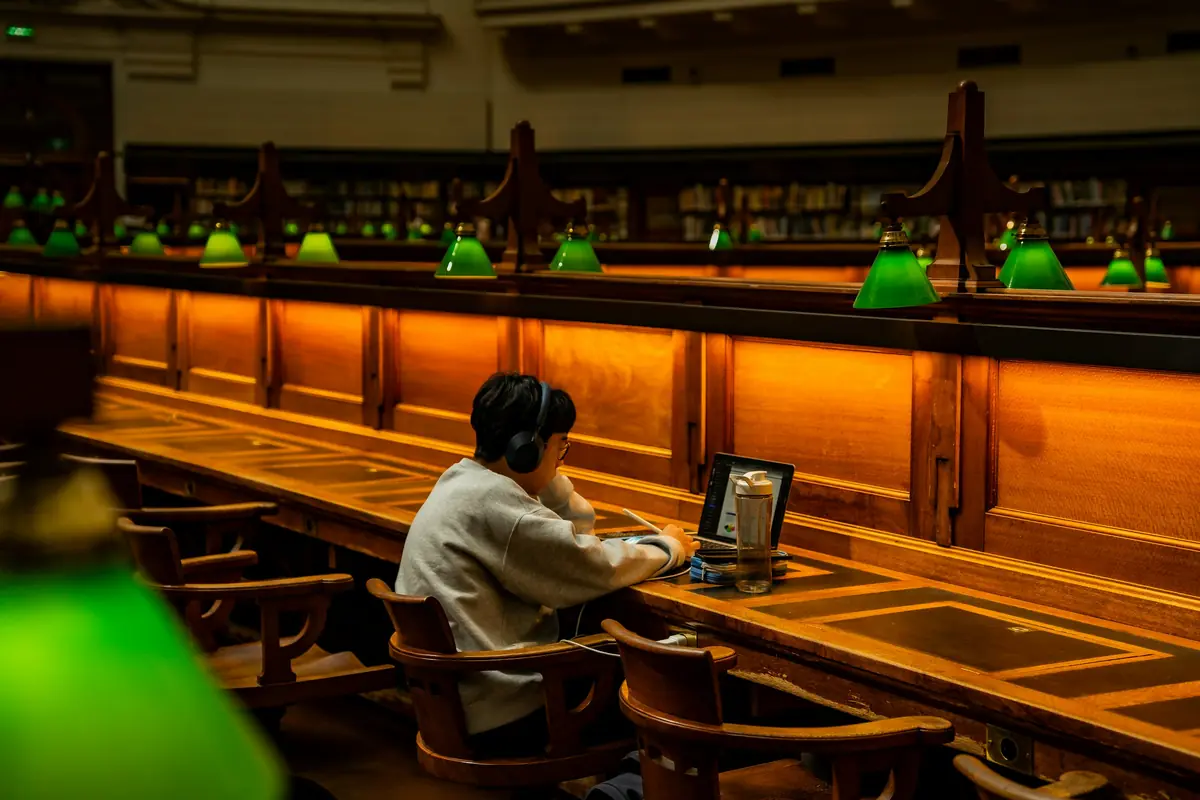
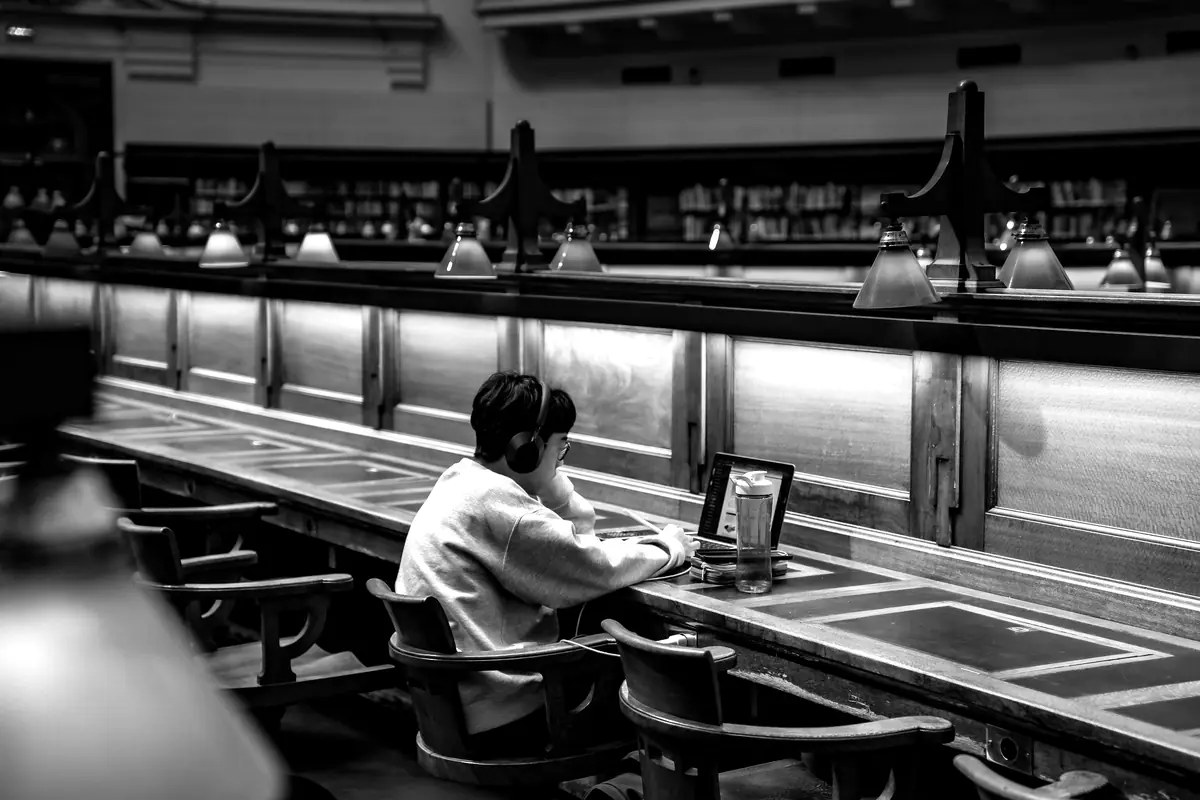
Make the landing feature photo black and white
At the owner's request every photograph now matches the monochrome hero
and the green, white and red palette.

diff --git a/src/pages/LandingPage.tsx b/src/pages/LandingPage.tsx
@@ -151,7 +151,7 @@ export default function LandingPage() {
           <SitePhoto
             slot="feature"
             sizes="(min-width: 1024px) 58vw, 100vw"
-            className="absolute inset-x-0 -top-[7%] h-[114%] w-full object-cover saturate-[.85]"
+            className="absolute inset-x-0 -top-[7%] h-[114%] w-full object-cover"
           />
         </div>
         <div className="flex items-center px-4 py-16 sm:px-6 lg:col-span-5 lg:px-14 lg:py-24 xl:px-20">
